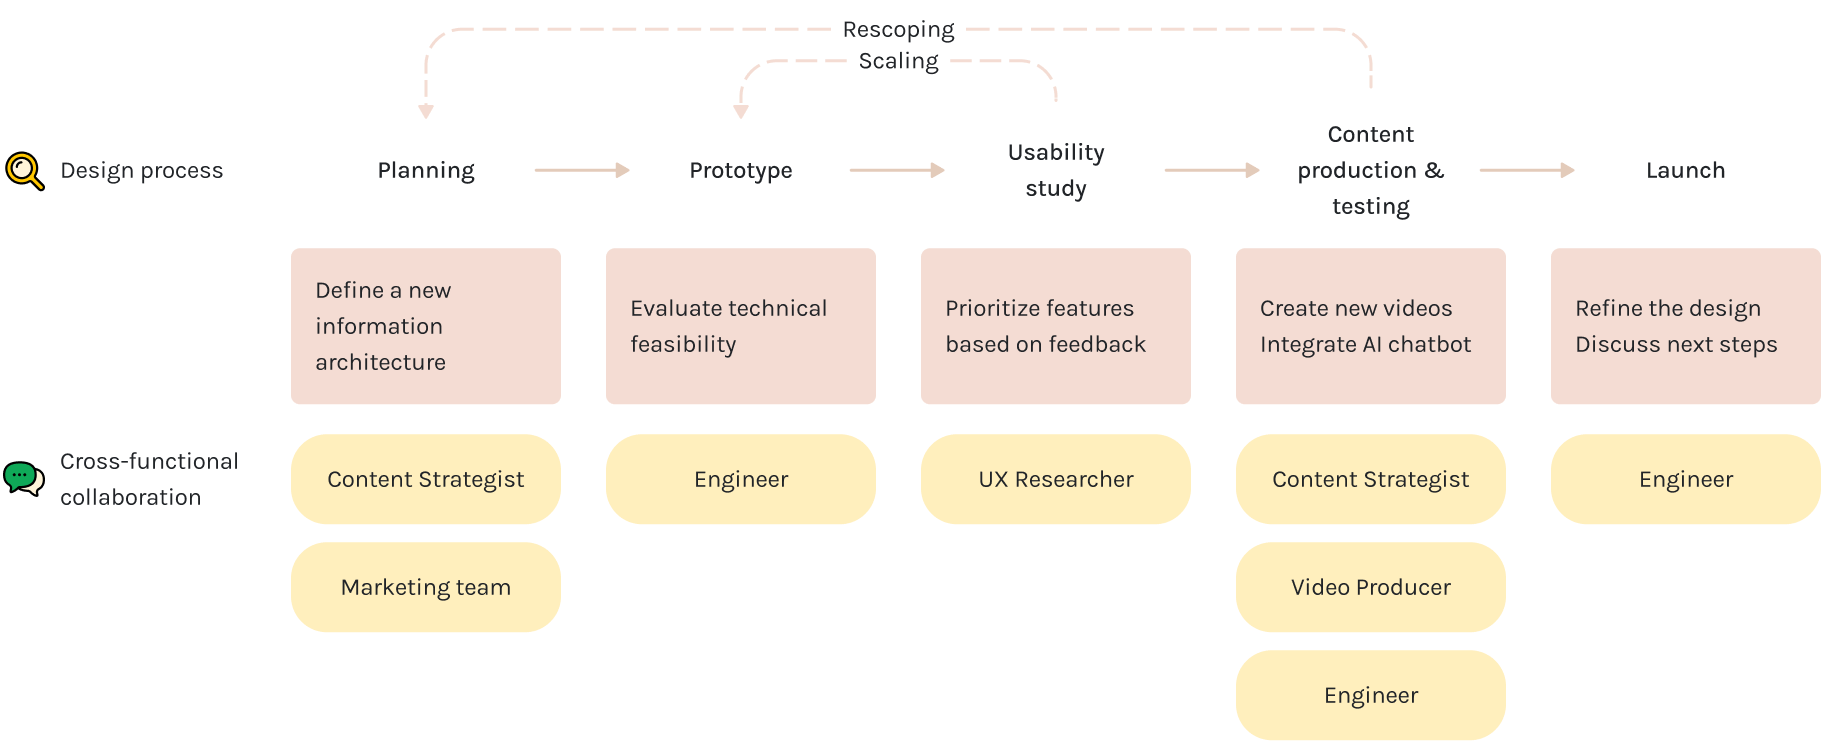
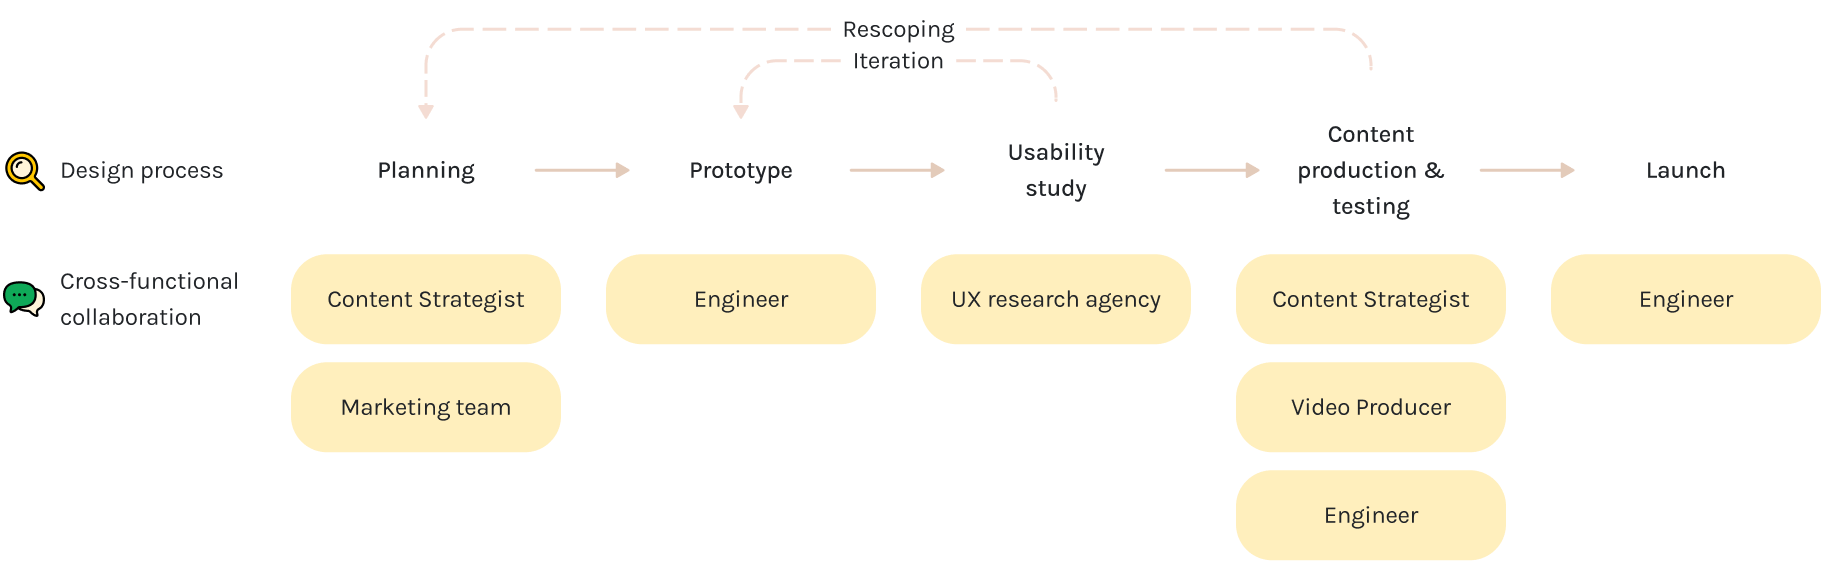
Update project pages

diff --git a/documentation-redesign.html b/documentation-redesign.html
@@ -29,7 +29,6 @@
   <main>
     <section class="case-hero-split">
       <div class="hero-left">
-        <p class="case-eyebrow">Design project</p>
         <h1>Documentation redesign</h1>
         <p class="case-dek">An AI-powered support hub that gives customers easy access to the information they need</p>
       </div>
@@ -42,15 +41,21 @@
     <section class="meta-grid">
       <div class="meta-item">
         <h3>Role</h3>
-        <p>UX Designer/Engineer</p>
+        <p>Lead designer from concept to iteration</p>
       </div>
       <div class="meta-item">
         <h3>Team</h3>
-        <p>Content strategist, engineers, UX research agency, video producer, marketing</p>
+        <p>Content Strategist</p>
+        <p>Sales Engineer</p>
+        <p>Software Engineer</p>
+        <p>Technical Writer</p>
+        <p>UX Researcher</p>
+        <p>Video Producer</p>
       </div>
       <div class="meta-item">
-        <h3>Process</h3>
-        <p>Planning &rarr; prototype &rarr; usability study &rarr; production &rarr; launch</p>
+        <h3>Timeline</h3>
+        <p>First phases: 4 months</p>
+        <p>Second phases: 6 months</p>
       </div>
       <div class="meta-item">
         <h3>Key result</h3>
@@ -61,7 +66,7 @@
     <section class="case-section" id="background">
       <p class="section-label">Background</p>
       <h2>An integrated support hub, hard to navigate</h2>
-      <p class="section-lead-text">Documentation is where customers go for onboarding, troubleshooting, and ongoing learning &mdash; used daily by IT managers, network architects, network engineers, and system admins. The previous interface listed every resource as a long, undifferentiated list of links.</p>
+      <p>Documentation is where customers go for onboarding, troubleshooting, and ongoing learning. It is used daily by IT managers, network engineers, and system admins. The previous interface listed every resource as a long, undifferentiated list of links.</p>
     </section>
 
     <div class="full-bleed-container">
@@ -82,46 +87,21 @@
         </div>
       </div>
       <div class="callout-banner">
-        <p><strong>Goal:</strong> build a logical content structure to guide users, and incorporate conversational AI to surface relevant information &mdash; increasing customer satisfaction and engagement.</p>
+        <p>Outcome: A logical content structure enhanced with conversational AI to guide users and surface relevant information.</p>
       </div>
     </section>
 
-    <section class="case-section" id="process">
-      <p class="section-label">Phase 1 &mdash; IA and navigation</p>
-      <h2>Streamlining the information architecture</h2>
-      <p class="section-lead-text">I mapped the product page into a progressive journey &mdash; Discover, Set Up, Manage, and Help Resources &mdash; so customers could move from learning about a product to actively managing it, with each stage surfacing the content that mattered most at that point.</p>
+    <section class="case-section" id="solution">
+      <p class="section-label">Solution at a glance</p>
+      <h2>A holistic, seamless support experience</h2>
     </section>
 
     <div class="full-bleed-container">
-      <img class="img-resize" src="images/design project 1/Tech Docs Redesign IA.png" alt="Diagram of the progressive user journey">
-    </div>
-
-    <div class="full-bleed-container">
-      <img src="images/design project 1/Phase 1 After.png" alt="Initial design translating the new IA into the documentation hub">
-    </div>
-
-    <section class="case-section" id="ai-assistant">
-      <p class="section-label">Phase 2 &mdash; AI chatbot assistant</p>
-      <h2>Designing an assistant customers could trust</h2>
-      <p class="section-lead-text">Usability testing on the initial design surfaced a bigger opportunity: connecting user intent to the right content more directly. I rescoped the project to design an AI assistant, guided by three principles &mdash; offering example questions so people knew how to ask, being transparent about what the assistant could and couldn't do, and always returning source links people could verify.</p>
-    </section>
-
-    <div class="full-bleed-container">
-      <img src="images/design project 1/Chatbot Wireframes.png" alt="UX wireframe flow mapping the five key states of the conversational AI assistant panel">
+      <img src="images/design project 1/Phase 2 Doc.png" alt="Top sections of the final design showing videos and guides">
     </div>
 
     <div class="full-bleed-container">
       <img src="images/design project 1/Phase 2 Chatbot.png" alt="AI assistant panel showing transparent fallback states">
-    </div>
-
-    <section class="case-section" id="solution">
-      <p class="section-label">Solution</p>
-      <h2>A comprehensive, innovative support hub</h2>
-      <p class="section-lead-text">The final design pairs featured video tutorials for fast onboarding with clearly labeled content blocks for easy discovery, and consolidates related resources so customers need fewer clicks to find what they need.</p>
-    </section>
-
-    <div class="full-bleed-container">
-      <img src="images/design project 1/Phase 2 Doc.png" alt="Bottom sections of the final design showing complete video playlists">
     </div>
 
     <section class="case-section" id="impact">
@@ -143,6 +123,59 @@
       </div>
     </section>
 
+    <hr class="section-divider">
+
+    <section class="case-section" id="process">
+      <p class="section-label">Process behind</p>
+      <h2>How we collaborated from ideation to launch</h2>
+    </section>
+
+    <div class="full-bleed-container">
+      <img src="images/design project 1/Tech Docs Redesign Design Process.png" alt="Flow chart of the design process">
+    </div>
+
+    <section class="case-section" id="planning">
+      <p class="section-label">Phase 1 &mdash; IA and navigation</p>
+      <h2>Streamlining the information architecture</h2>
+      <p>I worked with a Content Strategist and Sales Engineer to categorize the documentation based on common user tasks.</p>
+      <p>The new structure shows a progressive journey from the initial setup to help resources. Customers could move from learning about a product to actively managing it, with each stage surfacing the content that mattered most at that point.</p>
+    </section>
+
+    <div class="full-bleed-container">
+      <img class="img-resize" src="images/design project 1/Tech Docs Redesign IA.png" alt="Diagram of the progressive user journey">
+    </div>
+
+    <section class="case-section" id="initial-design">
+      <p class="section-label">Phase 1 &mdash; IA and navigation</p>
+      <h2>Initial design</h2>
+      <div class="pain-point-grid">
+        <div class="pain-point-item">
+          <h3>Satisfaction score of 4.25/5</h3>
+          <p>The new design scored 4.25 out of 5 in a usability study with 10 participants. Users liked the clear structure and logical organization, confirming the design was moving in the right direction.</p>
+        </div>
+        <div class="pain-point-item">
+          <h3>Improvement</h3>
+          <p>Enhance content variety &mdash; Analytics insights and internal interviews indicated demand for integrated video tutorials and training materials.</p>
+          <p>Reduce clicks &mdash; Usability study showed users struggle to find documentation when unfamiliar with technical terminology and want faster access.</p>
+        </div>
+      </div> </section>
+
+    <div class="full-bleed-container">
+      <img src="images/design project 1/Phase 1 After.png" alt="Initial design translating the new IA into the documentation hub">
+    </div>
+
+    <section class="case-section" id="ai-assistant">
+      <p class="section-label">Phase 2 &mdash; AI chatbot assistant</p>
+      <h2>Designing an assistant customers could trust</h2>
+      <p>Based on the findings, our team expanded the project scope with an AI assistant to better connect user intent to content. The design is guided by three principles: providing example questions, clarifying capabilities and limitations, and always returning verifiable source links.</p>
+      <p>The design defines five key states, including empty, loading, success, fallback, and feedback, to support both success and edge cases while ensuring user trust.</p>
+      <p>I also partnered with Content Strategists and Technical Writers to implement content tagging across documentation, improving AI processing and internal content management.
+    </section>
+
+    <div class="full-bleed-container">
+      <img src="images/design project 1/Chatbot Wireframes.png" alt="UX wireframe flow mapping the five key states of the conversational AI assistant panel">
+    </div>
+
     <section class="case-section" id="takeaways">
       <p class="section-label">Takeaways</p>
       <h2>What I learned</h2>
@@ -153,11 +186,11 @@
         </div>
         <div class="takeaway">
           <h3>Strategic focus &amp; iteration</h3>
-          <p>Effective AI features focus on specific use cases and embrace iteration rather than trying to do everything at once.</p>
+          <p>Effective AI features focus on specific use cases rather than trying to do everything at once.</p>
         </div>
         <div class="takeaway">
           <h3>The power of SMEs</h3>
-          <p>Subject matter experts are valuable teammates for validating design ideas early and often.</p>
+          <p>Subject Matter Experts are valuable teammates for validating design ideas early and often.</p>
         </div>
       </div>
     </section>

diff --git a/style.css b/style.css
@@ -119,14 +119,6 @@ h3 {
   margin-bottom: var(--spacing-sm);
 }
 
-.section-lead-text {
-  font-size: 1.15rem;
-  line-height: 1.75;
-  max-width: 72ch;
-  color: var(--color-text-secondary);
-  margin-bottom: var(--spacing-md);
-}
-
 .paragraph-focus {
   font-size: 1.25rem;
   line-height: 1.65;
@@ -296,10 +288,10 @@ ul {
 }
 
 .case-dek {
-  font-family: var(--font-secondary);
-  font-weight: 300;
-  font-size: 1.35rem;
-  color: var(--color-text-secondary);
+  font-family: var(--font-primary);
+  font-weight: 400;
+  font-size: 1.1rem;
+  color: var(--color-text-primary);
   max-width: 42ch;
 }
 
@@ -338,9 +330,9 @@ ul {
   width: 100%;
   display: flex;
   justify-content: center;
-  background-color: transparent; /* Removed project accent colors behind images */
-  padding: var(--spacing-xl) 0;
-  margin: var(--spacing-md) 0;
+  background-color: transparent;
+  padding: 0 0 var(--spacing-sm) 0;
+  margin: calc(-1 * var(--spacing-sm)) 0 0 0;
 }
 
 .full-bleed-container img {
@@ -447,6 +439,12 @@ ul {
 .callout-banner p {
   color: var(--color-text-primary);
   font-size: 1.1rem;
+}
+
+.section-divider {
+  border: none;
+  border-top: 1px solid var(--color-case-accent-light);
+  margin: 0;
 }
 
 .stat-flex-row {

diff --git a/in-product-help.html b/in-product-help.html
@@ -29,7 +29,6 @@
   <main>
     <section class="case-hero-split">
       <div class="hero-left">
-        <p class="case-eyebrow">Design project</p>
         <h1>In-product help</h1>
         <p class="case-dek">Effective, contextual guidance that helps customers adopt and keep using the product &mdash; without leaving it.</p>
       </div>
@@ -61,7 +60,7 @@
     <section class="case-section" id="background">
       <p class="section-label">Background</p>
       <h2>Contextual help for task completion</h2>
-      <p class="section-lead-text">In-product help offers step-by-step guidance right inside the interface as customers work with Security Director Cloud &mdash; so they don't have to leave the product to get unstuck.</p>
+      <p>In-product help offers step-by-step guidance right inside the interface as customers work with Security Director Cloud &mdash; so they don't have to leave the product to get unstuck.</p>
     </section>
 
     <section class="case-section" id="problem">
@@ -87,7 +86,7 @@
     <section class="case-section" id="research">
       <p class="section-label">Scoping and planning</p>
       <h2>Prioritizing by customer research</h2>
-      <p class="section-lead-text">Research showed that 76% of respondents had needed or anticipated needing in-product help, and half of those who used it returned at least once a week &mdash; with Quick Help as their primary destination. That data made the scoping decision clear: focus improvements where the impact would be highest.</p>
+      <p>Research showed that 76% of respondents had needed or anticipated needing in-product help, and half of those who used it returned at least once a week &mdash; with Quick Help as their primary destination. That data made the scoping decision clear: focus improvements where the impact would be highest.</p>
     </section>
 
     <div class="full-bleed-container">
@@ -97,12 +96,12 @@
     <section class="case-section" id="iteration">
       <p class="section-label">Evaluation</p>
       <h2>Testing the initial concepts</h2>
-      <p class="section-lead-text">Early usability testing validated the direction but surfaced two gaps: people liked the expand-in-place feature for tables and figures, but lost context scrolling through long articles; and the navigation system needed a clear way back to the topic list and previous state.</p>
+      <p>Early usability testing validated the direction but surfaced two gaps: people liked the expand-in-place feature for tables and figures, but lost context scrolling through long articles; and the navigation system needed a clear way back to the topic list and previous state.</p>
       <div class="quote-grid-two">
         <blockquote class="quote">"The expand feature is good. You may miss the context if you have to scroll up and down."</blockquote>
         <blockquote class="quote">"I would use the search function. It would be the easiest way to get to other content."</blockquote>
       </div>
-      <p class="section-lead-text">From there, I enhanced navigation with breadcrumbs and a back button, moved the topic list out of the hamburger menu, and reworked the welcome page to surface FAQs and content types more clearly.</p>
+      <p>From there, I enhanced navigation with breadcrumbs and a back button, moved the topic list out of the hamburger menu, and reworked the welcome page to surface FAQs and content types more clearly.</p>
     </section>
 
     <div class="full-bleed-container">
@@ -112,7 +111,7 @@
     <section class="case-section" id="solution">
       <p class="section-label">Solution</p>
       <h2>A streamlined help tool for seamless product support</h2>
-      <p class="section-lead-text">The final design gives customers a fast way in from any screen, clear pathways between the help panel, topic list, and articles, and a search experience with autosuggest so they rarely have to browse at all.</p>
+      <p>The final design gives customers a fast way in from any screen, clear pathways between the help panel, topic list, and articles, and a search experience with autosuggest so they rarely have to browse at all.</p>
     </section>
 
     <div class="full-bleed-container">
@@ -141,7 +140,7 @@
     <section class="case-section" id="next-steps">
       <p class="section-label">Next steps</p>
       <h2>Where this could go next</h2>
-      <p class="section-lead-text">Extend search functionality throughout in-product help, use feedback to link customers directly to relevant topics or the documentation site, and add contextual, dynamic tours that guide customers to the right place in the product.</p>
+      <p>Extend search functionality throughout in-product help, use feedback to link customers directly to relevant topics or the documentation site, and add contextual, dynamic tours that guide customers to the right place in the product.</p>
     </section>
 
     <nav class="case-footer-nav" aria-label="Case study navigation">

diff --git a/os-identifier.html b/os-identifier.html
@@ -29,7 +29,6 @@
   <main>
     <section class="case-hero-split">
       <div class="hero-left">
-        <p class="case-eyebrow">Design project</p>
         <h1>Operating system identifier</h1>
         <p class="case-dek">A clear visual differentiator between two network operating systems that share a documentation site but need very different setup steps.</p>
       </div>
@@ -61,7 +60,7 @@
     <section class="case-section" id="background">
       <p class="section-label">Background</p>
       <h2>Why an identifier was needed</h2>
-      <p class="section-lead-text">Junos OS and Junos OS Evolved (Evo) are two network operating systems that power Juniper's products. They run similarly, but require different setup processes &mdash; and their documentation lived side by side without a clear way to tell them apart.</p>
+      <p>Junos OS and Junos OS Evolved (Evo) are two network operating systems that power Juniper's products. They run similarly, but require different setup processes &mdash; and their documentation lived side by side without a clear way to tell them apart.</p>
     </section>
 
     <section class="case-section" id="problem">
@@ -92,7 +91,7 @@
     <section class="case-section" id="research">
       <p class="section-label">Insights</p>
       <h2>Visual cues facilitate understanding</h2>
-      <p class="section-lead-text">Early testing with tags, logos, and color-coding showed these cues genuinely helped customers recognize they were reading the correct documentation &mdash; but follow-up interviews surfaced three specific gaps still tripping people up.</p>
+      <p>Early testing with tags, logos, and color-coding showed these cues genuinely helped customers recognize they were reading the correct documentation &mdash; but follow-up interviews surfaced three specific gaps still tripping people up.</p>
     </section>
 
     <div class="full-bleed-container">
@@ -100,13 +99,13 @@
     </div>
 
     <section class="case-section" id="rescope-text">
-      <p class="section-lead-text">That led to a rescope: completely separate Junos and Evo content, update documentation titles, move the switch functionality to the top of the page, and show correct labels in breadcrumbs.</p>
+      <p">That led to a rescope: completely separate Junos and Evo content, update documentation titles, move the switch functionality to the top of the page, and show correct labels in breadcrumbs.</p>
     </section>
 
     <section class="case-section" id="iteration">
       <p class="section-label">Switch functionality</p>
       <h2>Iterating on how to switch between OSes</h2>
-      <p class="section-lead-text">I explored two directions for the OS switcher &mdash; a button pairing with a bold active state, and a toggle &mdash; before landing on a third option in a later round: a tab design that read clearly at a glance and matched the mental model of switching between two related documents.</p>
+      <p>I explored two directions for the OS switcher &mdash; a button pairing with a bold active state, and a toggle &mdash; before landing on a third option in a later round: a tab design that read clearly at a glance and matched the mental model of switching between two related documents.</p>
     </section>
 
     <div class="full-bleed-container">
@@ -116,7 +115,7 @@
     <section class="case-section" id="solution">
       <p class="section-label">Solution</p>
       <h2>Coherent, color-coded documentation for each OS</h2>
-      <p class="section-lead-text">The final design carries consistent tabs, colors, and headlines across every subsequent page, so customers always know which operating system's documentation they're reading &mdash; and can switch to the other in one click.</p>
+      <p>The final design carries consistent tabs, colors, and headlines across every subsequent page, so customers always know which operating system's documentation they're reading &mdash; and can switch to the other in one click.</p>
     </section>
 
     <div class="full-bleed-container">
@@ -145,7 +144,7 @@
     <section class="case-section" id="next-steps">
       <p class="section-label">Next steps</p>
       <h2>Where this could go next</h2>
-      <p class="section-lead-text">Update the remaining product pages for consistency, and use what we learned here to improve the broader documentation structure.</p>
+      <p>Update the remaining product pages for consistency, and use what we learned here to improve the broader documentation structure.</p>
     </section>
 
     <nav class="case-footer-nav" aria-label="Case study navigation">